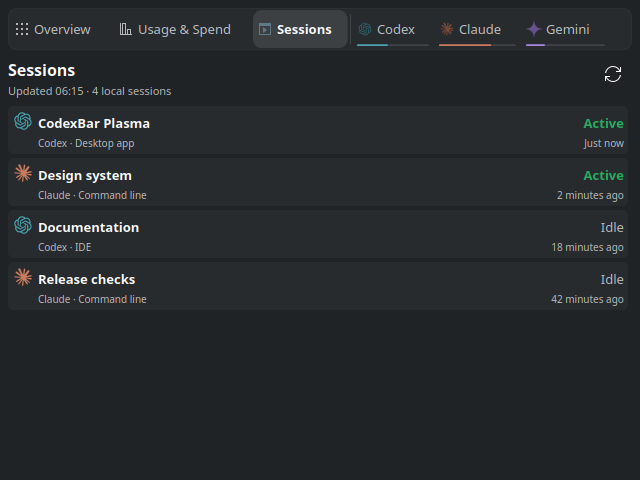
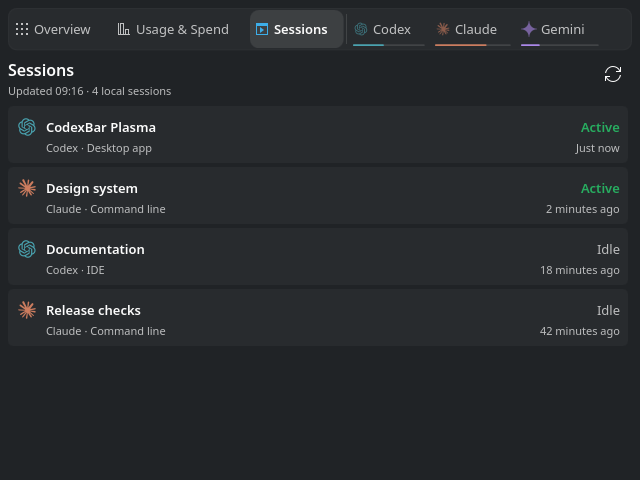
fix(popup): improve session card spacing and title layout (#623)
Separate title/state and provider/activity rows so long activity ages do not reserve space on the title line. Align provider icons and normalize card insets; bound states and ages with literal tooltips. Update the usage guide, Unreleased notes, Sessions screenshot and tour. TODO remains unchanged because no parity feature or CLI contract changes.

diff --git a/contents/ui/components/SessionsView.qml b/contents/ui/components/SessionsView.qml
@@ -219,7 +219,7 @@ ColumnLayout {
                         Kirigami.Theme.backgroundColor)
 
                     Layout.fillWidth: true
-                    Layout.preferredHeight: sessionRow.implicitHeight + Kirigami.Units.largeSpacing
+                    Layout.preferredHeight: sessionRow.implicitHeight + Kirigami.Units.largeSpacing * 2
                     radius: view.applet.nestedSurfaceRadius
                     // The card reveals its copy action on hover, so the
                     // surface confirms the hover the same way overview rows do.
@@ -244,34 +244,75 @@ ColumnLayout {
                         id: sessionRow
 
                         anchors.fill: parent
-                        anchors.margins: Kirigami.Units.largeSpacing / 2
-                        spacing: Kirigami.Units.smallSpacing
+                        anchors.margins: Kirigami.Units.largeSpacing
+                        spacing: Kirigami.Units.largeSpacing
 
-                        Kirigami.Icon {
-                            source: view.applet.providerIconSource(sessionCard.session.provider)
-                            fallback: "system-run-symbolic"
-                            isMask: view.applet.providerIconIsMask(sessionCard.session.provider)
-                            color: sessionCard.accent
+                        Item {
                             Layout.preferredWidth: Kirigami.Units.iconSizes.smallMedium
-                            Layout.preferredHeight: Kirigami.Units.iconSizes.smallMedium
+                            Layout.preferredHeight: sessionTitleValue.implicitHeight
                             Layout.alignment: Qt.AlignTop
+
+                            Kirigami.Icon {
+                                anchors.centerIn: parent
+                                source: view.applet.providerIconSource(sessionCard.session.provider)
+                                fallback: "system-run-symbolic"
+                                isMask: view.applet.providerIconIsMask(sessionCard.session.provider)
+                                color: sessionCard.accent
+                                width: Kirigami.Units.iconSizes.smallMedium
+                                height: width
+                            }
                         }
 
                         ColumnLayout {
                             Layout.fillWidth: true
                             spacing: 0
 
-                            Components.CopyableValue {
-                                id: sessionTitleValue
+                            Item {
+                                id: sessionTitleRow
 
-                                text: sessionCard.title
-                                fontWeight: Font.DemiBold
-                                copyAccessibleName: i18n("Copy session name")
-                                copyEnabled: !view.applet.privacyMode
-                                copyRevealed: sessionCardHover.hovered
-                                copied: view.copiedValueKey === sessionCard.titleCopyKey
-                                onCopyRequested: function(text) {
-                                    view.copySessionValue(text, sessionCard.titleCopyKey)
+                                Layout.fillWidth: true
+                                implicitHeight: Math.max(sessionTitleValue.implicitHeight,
+                                    sessionStateLabel.implicitHeight)
+
+                                Components.CopyableValue {
+                                    id: sessionTitleValue
+
+                                    anchors.left: parent.left
+                                    anchors.verticalCenter: parent.verticalCenter
+                                    width: Math.max(0, parent.width - sessionStateLabel.width
+                                        - Kirigami.Units.smallSpacing)
+                                    text: sessionCard.title
+                                    fontWeight: Font.DemiBold
+                                    copyAccessibleName: i18n("Copy session name")
+                                    copyEnabled: !view.applet.privacyMode
+                                    copyRevealed: sessionCardHover.hovered
+                                    copied: view.copiedValueKey === sessionCard.titleCopyKey
+                                    onCopyRequested: function(text) {
+                                        view.copySessionValue(text, sessionCard.titleCopyKey)
+                                    }
+                                }
+
+                                Components.PlainPlasmaLabel {
+                                    id: sessionStateLabel
+
+                                    anchors.right: parent.right
+                                    anchors.verticalCenter: parent.verticalCenter
+                                    width: Math.min(implicitWidth, parent.width * 0.4)
+                                    text: sessionLabels.sessionStateText(sessionCard.session.state)
+                                    color: sessionCard.activeSession
+                                        ? Kirigami.Theme.positiveTextColor : Kirigami.Theme.textColor
+                                    opacity: sessionCard.activeSession ? 1 : view.applet.secondaryTextOpacity
+                                    font.weight: sessionCard.activeSession ? Font.DemiBold : Font.Normal
+                                    horizontalAlignment: Text.AlignRight
+                                    elide: Text.ElideRight
+
+                                    HoverHandler { id: sessionStateHover }
+
+                                    PlainToolTip {
+                                        parent: sessionStateLabel
+                                        visible: sessionStateLabel.truncated && sessionStateHover.hovered
+                                        plainText: sessionStateLabel.text
+                                    }
                                 }
                             }
 
@@ -296,55 +337,55 @@ ColumnLayout {
                                 }
                             }
 
-                            Components.PlainPlasmaLabel {
-                                id: sessionSubtitleLabel
-
-                                visible: sessionCard.subtitle.length > 0
-                                text: sessionCard.subtitle
-                                opacity: view.applet.secondaryTextOpacity
-                                font.pixelSize: Kirigami.Theme.smallFont.pixelSize
+                            // Age competes only with metadata, leaving the title
+                            // the space beside its shorter state on the line above.
+                            Item {
                                 Layout.fillWidth: true
-                                elide: Text.ElideRight
+                                implicitHeight: Math.max(sessionSubtitleLabel.implicitHeight,
+                                    sessionActivityLabel.implicitHeight)
 
-                                HoverHandler {
-                                    id: sessionSubtitleLabelHover
+                                Components.PlainPlasmaLabel {
+                                    id: sessionSubtitleLabel
+
+                                    anchors.left: parent.left
+                                    anchors.verticalCenter: parent.verticalCenter
+                                    width: Math.max(0, parent.width - sessionActivityLabel.width
+                                        - Kirigami.Units.smallSpacing)
+                                    visible: sessionCard.subtitle.length > 0
+                                    text: sessionCard.subtitle
+                                    opacity: view.applet.secondaryTextOpacity
+                                    font: Kirigami.Theme.smallFont
+                                    elide: Text.ElideRight
+
+                                    HoverHandler { id: sessionSubtitleLabelHover }
+
+                                    PlainToolTip {
+                                        parent: sessionSubtitleLabel
+                                        visible: sessionSubtitleLabel.truncated && sessionSubtitleLabelHover.hovered
+                                        plainText: sessionSubtitleLabel.text
+                                    }
                                 }
 
-                                PlainToolTip {
-                                    parent: sessionSubtitleLabel
-                                    visible: sessionSubtitleLabel.truncated && sessionSubtitleLabelHover.hovered
-                                    plainText: sessionSubtitleLabel.text
+                                Components.PlainPlasmaLabel {
+                                    id: sessionActivityLabel
+
+                                    anchors.right: parent.right
+                                    anchors.verticalCenter: parent.verticalCenter
+                                    width: Math.min(implicitWidth, parent.width * 0.5)
+                                    text: sessionLabels.sessionActivityText(sessionCard.session, view.sessionClockMs)
+                                    opacity: view.applet.secondaryTextOpacity
+                                    font: Kirigami.Theme.smallFont
+                                    horizontalAlignment: Text.AlignRight
+                                    elide: Text.ElideRight
+
+                                    HoverHandler { id: sessionActivityHover }
+
+                                    PlainToolTip {
+                                        parent: sessionActivityLabel
+                                        visible: sessionActivityLabel.truncated && sessionActivityHover.hovered
+                                        plainText: sessionActivityLabel.text
+                                    }
                                 }
-                            }
-                        }
-
-                        ColumnLayout {
-                            spacing: 0
-                            Layout.alignment: Qt.AlignTop
-
-                            // State reads the same for every provider, so it
-                            // uses the theme's meaning colors, not the accent.
-                            Components.PlainPlasmaLabel {
-                                text: sessionLabels.sessionStateText(sessionCard.session.state)
-                                color: sessionCard.activeSession
-                                    ? Kirigami.Theme.positiveTextColor
-                                    : Kirigami.Theme.textColor
-                                opacity: sessionCard.activeSession ? 1 : view.applet.secondaryTextOpacity
-                                font.weight: sessionCard.activeSession ? Font.DemiBold : Font.Normal
-                                horizontalAlignment: Text.AlignRight
-                                // Share the title row's height so the state sits
-                                // on the title's line instead of above it.
-                                verticalAlignment: Text.AlignVCenter
-                                Layout.preferredHeight: sessionTitleValue.actionSize
-                                Layout.alignment: Qt.AlignRight
-                            }
-
-                            Components.PlainPlasmaLabel {
-                                text: sessionLabels.sessionActivityText(sessionCard.session, view.sessionClockMs)
-                                opacity: view.applet.secondaryTextOpacity
-                                font.pixelSize: Kirigami.Theme.smallFont.pixelSize
-                                horizontalAlignment: Text.AlignRight
-                                Layout.alignment: Qt.AlignRight
                             }
                         }
                     }

diff --git a/tests/tst_visual_layout.qml b/tests/tst_visual_layout.qml
@@ -318,6 +318,7 @@ TestCase {
 
     function init() {
         applet.sessions = [];
+        applet.privacyMode = false;
         applet.expanded = false;
         applet.openedProvider = "";
         applet.hoveredPanelProviderID = "";
@@ -866,6 +867,69 @@ TestCase {
         compare(active.color, theme.positive);
         verify(active.color !== applet.brandAccent);
         compare(idle.opacity, applet.secondaryTextOpacity);
+    }
+
+    function test_sessionRowsReserveSpaceIndependently_data() {
+        return [
+            {tag: "narrow", width: 240, privacy: false},
+            {tag: "small", width: 320, privacy: false},
+            {tag: "normal", width: 540, privacy: false},
+            {tag: "wide", width: 900, privacy: false},
+            {tag: "private", width: 240, privacy: true}
+        ];
+    }
+
+    function test_sessionRowsReserveSpaceIndependently(data) {
+        failOnWarning(/Binding loop|recursive rearrange/);
+        applet.sessionsErrorText = "";
+        applet.privacyMode = data.privacy;
+        applet.sessions = [{provider: "codex", projectName: Array(15).join("Workspace "),
+            sessionName: "", host: "", state: "idle", source: "cli", activityMs: 1}];
+        var view = createControl("SessionsView", {applet: applet, width: data.width, height: 300});
+        if (!view) return;
+        waitForRendering(view);
+        var title = findItem(view, function(item) {
+            return item.visible && item.elide !== undefined && item.text === (data.privacy ? "Session 1" : applet.sessions[0].projectName);
+        });
+        var state = findItem(view, function(item) { return item.visible && item.text === "Idle"; });
+        var subtitle = findItem(view, function(item) {
+            return item.visible && item.elide !== undefined && item.text === "codex · Command line";
+        });
+        var age = findItem(view, function(item) { return item.visible && item.text === "Just now"; });
+        verify(title !== null && state !== null && subtitle !== null && age !== null);
+        var titleRow = title.parent;
+        verify(titleRow.width > subtitle.width,
+            "the age still takes space from the title above it");
+        verify(title.mapToItem(view, title.width, 0).x <= state.mapToItem(view, 0, 0).x);
+        verify(subtitle.mapToItem(view, subtitle.width, 0).x <= age.mapToItem(view, 0, 0).x);
+        verify(state.mapToItem(view, state.width, 0).x < data.width);
+        verify(age.mapToItem(view, age.width, 0).x < data.width);
+        var originalTitleWidth = titleRow.width;
+
+        // Unknown CLI states stay literal and bounded. They must not push the
+        // title or copy action out of the card at a narrow width.
+        var unknownState = Array(16).join("<state> & ");
+        applet.sessions = [{provider: "codex", projectName: applet.sessions[0].projectName,
+            sessionName: "", host: "", state: unknownState, source: "cli", activityMs: 1}];
+        wait(0);
+        if (data.privacy) {
+            compare(state.text, "Unknown");
+            return;
+        }
+        compare(state.text, unknownState);
+        verify(state.truncated);
+        verify(titleRow.width > 0 && titleRow.width < originalTitleWidth);
+        verify(titleRow.mapToItem(view, titleRow.width, 0).x <= state.mapToItem(view, 0, 0).x);
+        var tips = [];
+        findAllItems(state, function(item) { return item.plainText !== undefined; }, tips);
+        compare(tips.length, 1);
+        var tip = tips[0];
+        compare(tip.text, SafeText.plainTextAsRichText(unknownState));
+        if (data.width > testCase.width) return;
+        tip.delay = 0;
+        mouseMove(state, state.width / 2, state.height / 2);
+        tryCompare(tip, "visible", true);
+        mouseMove(testCase, testCase.width - 1, testCase.height - 1);
     }
 
     function test_truncatedSessionMetadataRevealsLiteralText_data() {

diff --git a/docs/usage.md b/docs/usage.md
@@ -247,7 +247,10 @@ work and upstream contract requirements.
   the theme's positive color while active, the provider (or `OMP` for an OMP
   Pi-family session), and the source. The host name appears only when sessions
   come from more than one host. Hovering a card reveals a copy action beside
-  its title. Rescans with an unchanged session count update cards in place,
+  its title. Names and states share the first line; provider metadata and activity
+  age share a separate line, so a long age does not shorten the name above it.
+  Long states and ages stay within the card and reveal their full text on hover.
+  Rescans with an unchanged session count update cards in place,
   preserving hover and keyboard focus at the same list position. A changed
   session count recreates the cards. Ages use the current clock after each scan.
 - Overview providers can be limited to a chosen set of up to 3 providers, or

diff --git a/CHANGELOG.md b/CHANGELOG.md
@@ -20,6 +20,10 @@ For earlier versions, see [GitHub Releases](https://github.com/Lucenx9/codexbar-
 
 ### Changed
 
+- Give session names more space with independent title and metadata rows, align
+  provider icons with their titles, and use consistent inset spacing. Keep long
+  session states and activity ages inside the card with full-text tooltips.
+
 - Mark the inspected chart point with a vertical guide, including zero values,
   reveal abbreviated point labels and values in a tooltip, and show keyboard
   readouts immediately across cost, Usage & Spend, and provider detail charts.
